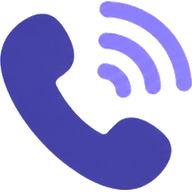
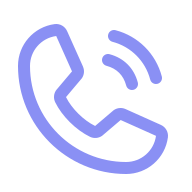
feat(mobile): colour-blind safe palette and errors not shown by colour alone
Done/not done are teal against orange, delete is vermilion, preset tints
stay apart under protanopia, deuteranopia and tritanopia. Preset icons are
flat and drawn in their tint. Field errors get text and an icon under the
field (also read by screen readers); selected segments and tabs get an
outline or heavier label as well as the tint.

diff --git a/mobile/src/lib/theme.tsx b/mobile/src/lib/theme.tsx
@@ -8,7 +8,14 @@ import { useSpoken } from "./use-spoken";
    mobile counterpart: the same roles on a cool white, with the accent deepened
    so it still reads on white. Inter for everything, small labels included: the
    web's uppercase mono labels are left out here on purpose, so the app reads
-   like plain writing rather than a terminal. */
+   like plain writing rather than a terminal.
+
+   Colour-blind safe: done and not done are teal against orange (never green
+   against red), delete is a vermilion that keeps its contrast for protanopes,
+   and the six tints stay apart under protanopia, deuteranopia and tritanopia
+   (simulated, Machado 2009), mostly by differing in lightness as well as hue.
+   Every coloured text clears 4.5:1 on the surfaces. Colour is never the only
+   signal: status always has an icon and words too (ACCESSIBILITY.md). */
 
 /** Supporting tints for preset cards and art. Each is a foreground and a soft background. */
 export type TintKey = "violet" | "amber" | "teal" | "rose" | "sky" | "lime";
@@ -31,7 +38,12 @@ export interface Palette {
   inv: string;
   accent: string;
   accent2: string;
+  /** Destructive actions (delete, hang up, log out): text, and fills under white icons. */
   danger: string;
+  dangerSoft: string;
+  /** A call that got done, and one that didn't. */
+  ok: Tint;
+  fail: Tint;
   scrim: string;
   /** The accent as a quiet tint, behind icons and the active speaker. */
   accentSoft: string;
@@ -55,18 +67,21 @@ export const DARK: Palette = {
   inv: "#0A0C11",
   accent: "#A5B4FF",
   accent2: "#C7D0FF",
-  danger: "#E5484D",
+  danger: "#F0652E",
+  dangerSoft: "rgba(240,101,46,0.14)",
+  ok: { fg: "#5FD8C4", bg: "rgba(95,216,196,0.13)" },
+  fail: { fg: "#F5A623", bg: "rgba(245,166,35,0.14)" },
   scrim: "rgba(0,0,0,0.6)",
   accentSoft: "rgba(165,180,255,0.12)",
   lift: "0 1px 0 rgba(255,255,255,0.04) inset, 0 8px 24px rgba(0,0,0,0.35)",
   glow: 0.32,
   tints: {
-    violet: { fg: "#B9A8FF", bg: "rgba(185,168,255,0.14)" },
-    amber: { fg: "#FFC46B", bg: "rgba(255,196,107,0.13)" },
-    teal: { fg: "#5FD8C4", bg: "rgba(95,216,196,0.13)" },
-    rose: { fg: "#FF8FA8", bg: "rgba(255,143,168,0.13)" },
-    sky: { fg: "#7CC4FF", bg: "rgba(124,196,255,0.13)" },
-    lime: { fg: "#B5E36B", bg: "rgba(181,227,107,0.13)" },
+    violet: { fg: "#A98BF5", bg: "rgba(169,139,245,0.15)" },
+    amber: { fg: "#D69A2E", bg: "rgba(214,154,46,0.14)" },
+    teal: { fg: "#3EE08E", bg: "rgba(62,224,142,0.12)" },
+    rose: { fg: "#F3709C", bg: "rgba(243,112,156,0.14)" },
+    sky: { fg: "#9FD2F0", bg: "rgba(159,210,240,0.13)" },
+    lime: { fg: "#D2E04E", bg: "rgba(210,224,78,0.12)" },
   },
 };
 
@@ -83,18 +98,21 @@ export const LIGHT: Palette = {
   inv: "#FFFFFF",
   accent: "#5566E8",
   accent2: "#3A4BCF",
-  danger: "#D93B40",
+  danger: "#C2410C",
+  dangerSoft: "rgba(194,65,12,0.10)",
+  ok: { fg: "#0B6E62", bg: "rgba(11,110,98,0.10)" },
+  fail: { fg: "#A85A00", bg: "rgba(232,150,20,0.14)" },
   scrim: "rgba(10,12,17,0.35)",
   accentSoft: "rgba(85,102,232,0.09)",
   lift: "0 1px 2px rgba(10,12,17,0.05), 0 6px 18px rgba(10,12,17,0.06)",
   glow: 0.2,
   tints: {
-    violet: { fg: "#6B4FE0", bg: "rgba(107,79,224,0.10)" },
-    amber: { fg: "#B86A00", bg: "rgba(232,150,20,0.13)" },
-    teal: { fg: "#0E8A78", bg: "rgba(14,160,138,0.11)" },
-    rose: { fg: "#D2335C", bg: "rgba(226,60,100,0.10)" },
-    sky: { fg: "#1C74C9", bg: "rgba(40,130,220,0.11)" },
-    lime: { fg: "#4E8A10", bg: "rgba(100,170,30,0.12)" },
+    violet: { fg: "#5F3BCE", bg: "rgba(95,59,206,0.10)" },
+    amber: { fg: "#7A3E0C", bg: "rgba(200,110,30,0.13)" },
+    teal: { fg: "#0B6E3F", bg: "rgba(20,150,90,0.11)" },
+    rose: { fg: "#962A74", bg: "rgba(170,50,130,0.10)" },
+    sky: { fg: "#1478B5", bg: "rgba(30,130,200,0.11)" },
+    lime: { fg: "#6A7E0A", bg: "rgba(140,170,20,0.14)" },
   },
 };
 

diff --git a/mobile/src/components/ui.tsx b/mobile/src/components/ui.tsx
@@ -21,6 +21,7 @@ import Animated, {
   withTiming,
 } from "react-native-reanimated";
 import { ease, em, F, makeStyles, useTheme } from "../lib/theme";
+import { Icon } from "./Icon";
 
 // Shared pieces for the screens, matching the .btn, .rise and .dots rules in web/src/app/globals.css.
 
@@ -153,8 +154,12 @@ export function T({
   return <Text {...rest} style={[s, style]} />;
 }
 
-/** A labelled single-line input in the composer's look (.field): surface, hairline, accent on focus. */
-export function Field({ label, error, style, ...rest }: TextInputProps & { ref?: Ref<TextInputInstance>; label: string; error?: boolean }) {
+/**
+ * A labelled single-line input in the composer's look (.field): surface, hairline, accent on focus.
+ * `error` as text is written under the field with an icon and read out with it, so a mistake
+ * is never shown by the red border alone.
+ */
+export function Field({ label, error, style, ...rest }: TextInputProps & { ref?: Ref<TextInputInstance>; label: string; error?: boolean | string }) {
   const { C, scheme } = useTheme();
   const styles = useStyles();
   const [focused, setFocused] = useState(false);
@@ -163,6 +168,7 @@ export function Field({ label, error, style, ...rest }: TextInputProps & { ref?:
       <Text style={styles.fieldLabel}>{label}</Text>
       <TextInput
         accessibilityLabel={label}
+        accessibilityHint={typeof error === "string" ? error : undefined}
         placeholderTextColor={C.dim}
         selectionColor={C.accent}
         cursorColor={C.accent}
@@ -176,8 +182,14 @@ export function Field({ label, error, style, ...rest }: TextInputProps & { ref?:
           setFocused(false);
           rest.onBlur?.(e);
         }}
-        style={[styles.field, focused && { borderColor: C.accent }, error && { borderColor: C.danger }, style]}
+        style={[styles.field, focused && { borderColor: C.accent }, error ? styles.fieldBad : null, style]}
       />
+      {typeof error === "string" && error ? (
+        <View style={styles.fieldError}>
+          <Icon name="alert" color={C.danger} size={16} />
+          <Text style={styles.fieldErrorText}>{error}</Text>
+        </View>
+      ) : null}
     </View>
   );
 }
@@ -190,6 +202,9 @@ const useStyles = makeStyles((C) => ({
   dot: { width: 6, height: 6, borderRadius: 3, backgroundColor: C.muted },
   fieldWrap: { gap: 6 },
   fieldLabel: { fontFamily: F.medium, fontSize: 13, color: C.muted },
+  fieldBad: { borderColor: C.danger, borderWidth: 2 },
+  fieldError: { flexDirection: "row", alignItems: "center", gap: 6 },
+  fieldErrorText: { fontFamily: F.medium, fontSize: 13.5, color: C.danger, flexShrink: 1 },
   field: {
     height: 48,
     paddingHorizontal: 14,

diff --git a/mobile/src/components/Profile.tsx b/mobile/src/components/Profile.tsx
@@ -52,10 +52,10 @@ export function Profile() {
   const hour = new Date().getHours();
   const greet = m.greet[hour < 5 ? "night" : hour < 11 ? "morning" : hour < 18 ? "day" : "evening"];
   const realOn = serverCalls && !!savedCode;
-  const teal = C.tints.teal;
+  const ready = C.ok;
 
   return (
-    <ScrollView style={styles.grow} contentContainerStyle={styles.body} keyboardShouldPersistTaps="handled">
+    <ScrollView contentOffset={{ x: 0, y: 1250 }} style={styles.grow} contentContainerStyle={styles.body} keyboardShouldPersistTaps="handled">
       <Text style={styles.h} accessibilityRole="header">
         {m.profileH}
       </Text>
@@ -127,10 +127,10 @@ export function Profile() {
       </View>
 
       <SectionTitle icon="phone" title={m.callsH} />
-      <View style={[styles.group, realOn && { borderColor: teal.fg }]}>
+      <View style={[styles.group, realOn && { borderColor: ready.fg }]}>
         <View style={styles.switchRow}>
-          <View style={[styles.tile, { backgroundColor: realOn ? teal.bg : C.accentSoft }]}>
-            <Icon name="cloud" color={realOn ? teal.fg : C.accent} size={19} />
+          <View style={[styles.tile, { backgroundColor: realOn ? ready.bg : C.accentSoft }]}>
+            <Icon name="cloud" color={realOn ? ready.fg : C.accent} size={19} />
           </View>
           <View style={styles.grow}>
             <T size={15} weight="semibold">
@@ -152,7 +152,7 @@ export function Profile() {
         {serverCalls ? (
           <>
             <View style={styles.divider} />
-            <FieldRow icon="key" tint={realOn ? teal : undefined}>
+            <FieldRow icon="key" tint={realOn ? ready : undefined}>
               <Field
                 label={m.passcodeL}
                 value={code}
@@ -168,8 +168,8 @@ export function Profile() {
             </FieldRow>
             {/* The state of calls, said plainly: real phones can ring, or it's a demo. */}
             <View style={styles.state} accessibilityLiveRegion="polite">
-              <Icon name={realOn ? "check" : "phone"} color={realOn ? teal.fg : C.dim} size={16} strokeWidth={realOn ? 2.4 : 1.7} />
-              <Text style={[styles.stateText, { color: realOn ? teal.fg : C.dim }]}>{realOn ? m.passcodeSet : m.passcodeS}</Text>
+              <Icon name={realOn ? "check" : "phone"} color={realOn ? ready.fg : C.dim} size={16} strokeWidth={realOn ? 2.4 : 1.7} />
+              <Text style={[styles.stateText, { color: realOn ? ready.fg : C.dim }]}>{realOn ? m.passcodeSet : m.passcodeS}</Text>
             </View>
           </>
         ) : null}

diff --git a/mobile/src/components/List.tsx b/mobile/src/components/List.tsx
@@ -108,16 +108,17 @@ const useStyles = makeStyles((C) => ({
   rowLine: { borderTopWidth: 1, borderTopColor: C.line },
   pressed: { backgroundColor: C.surface2 },
   ic: { width: 34, height: 34, borderRadius: 10, alignItems: "center", justifyContent: "center", backgroundColor: C.accentSoft },
-  icDanger: { backgroundColor: C.tints.rose.bg },
+  icDanger: { backgroundColor: C.dangerSoft },
   accent: { color: C.accent },
   danger: { color: C.danger },
   dim: { color: C.dim },
   seg: { flexDirection: "row", borderWidth: 1, borderColor: C.line2, borderRadius: 12, padding: 3 },
-  segBtn: { height: 30, paddingHorizontal: 11, borderRadius: 9, justifyContent: "center", alignItems: "center" },
+  // The chosen option gets an outline and a heavier label as well as the tint, so it doesn't rest on colour.
+  segBtn: { height: 30, paddingHorizontal: 11, borderRadius: 9, justifyContent: "center", alignItems: "center", borderWidth: 1.5, borderColor: "transparent" },
   // With an icon: the glyph over a small label, so three choices fit beside a row title.
   segIconBtn: { height: 50, minWidth: 52, paddingHorizontal: 8, gap: 3 },
   segWide: { alignSelf: "stretch" },
-  segOn: { backgroundColor: C.accentSoft },
+  segOn: { backgroundColor: C.accentSoft, borderColor: C.accent },
   segText: { fontFamily: F.medium, fontSize: 12, color: C.dim },
-  segTextOn: { color: C.accent },
+  segTextOn: { color: C.accent, fontFamily: F.semibold },
 }));

diff --git a/mobile/src/components/drawings/PresetArt.tsx b/mobile/src/components/drawings/PresetArt.tsx
@@ -1,8 +1,11 @@
 import { Image } from "react-native";
 import type { PresetIcon } from "../../lib/presets";
 import type { Tint } from "../../lib/theme";
+import { useTint } from "../Art";
 
-// Generated 3D illustrations for the presets (assets/presets, one per PresetIcon).
+// The flat preset icons (assets/presets, one per PresetIcon). Each is one colour, so
+// it is drawn in its theme tint, which keeps the set colour-blind safe and readable
+// in light and dark mode.
 const ART: Record<PresetIcon, number> = {
   phone: require("../../../assets/presets/phone.png"),
   heart: require("../../../assets/presets/heart.png"),
@@ -18,6 +21,7 @@ export function hasPresetArt(icon: PresetIcon): boolean {
   return icon in ART;
 }
 
-export function PresetArt({ icon, size = 56 }: { icon: PresetIcon; tint?: Tint; size?: number }) {
-  return <Image source={ART[icon]} style={{ width: size, height: size }} resizeMode="contain" accessibilityElementsHidden importantForAccessibility="no-hide-descendants" />;
+export function PresetArt({ icon, tint, size = 56 }: { icon: PresetIcon; tint?: Tint; size?: number }) {
+  const own = useTint(icon);
+  return <Image source={ART[icon]} style={{ width: size, height: size, tintColor: (tint ?? own).fg }} resizeMode="contain" accessibilityElementsHidden importantForAccessibility="no-hide-descendants" />;
 }

diff --git a/mobile/src/components/PresetSheets.tsx b/mobile/src/components/PresetSheets.tsx
@@ -245,7 +245,7 @@ export function PresetEditor({ open, preset, onClose }: { open: boolean; preset:
       left={<HeadButton label={m.cancel} onPress={onClose} />}
       right={<HeadButton label={m.save} onPress={save} strong />}
     >
-      <Field label={m.presetName} value={draft.title} placeholder={m.presetNamePh} onChangeText={(title) => patch({ title })} error={invalid && !draft.title.trim()} />
+      <Field label={m.presetName} value={draft.title} placeholder={m.presetNamePh} onChangeText={(title) => patch({ title })} error={invalid && !draft.title.trim() ? m.needTitle : undefined} />
 
       <View style={styles.group}>
         <Text style={styles.groupLabel}>{m.iconL}</Text>
@@ -306,7 +306,7 @@ export function PresetEditor({ open, preset, onClose }: { open: boolean; preset:
         onChangeText={(template) => patch({ template })}
         onSelectionChange={(e) => setSel(e.nativeEvent.selection)}
         multiline
-        error={invalid && !draft.template.trim()}
+        error={invalid && !draft.template.trim() ? m.needTemplate : undefined}
         style={styles.multiline}
       />
       {draft.fields.some((f) => f.label.trim()) ? (

diff --git a/mobile/src/components/Home.tsx b/mobile/src/components/Home.tsx
@@ -310,7 +310,7 @@ function TabBar({ tab }: { tab: Tab }) {
               style={[styles.tab, on && styles.tabOn]}
             >
               <Icon name={x.icon} color={color} size={22} />
-              <Text style={[styles.tabLabel, { color }]} numberOfLines={1}>
+              <Text style={[styles.tabLabel, on && styles.tabLabelOn, { color }]} numberOfLines={1}>
                 {x.label}
               </Text>
             </Pressable>
@@ -369,4 +369,5 @@ const useStyles = makeStyles((C) => ({
   tab: { flex: 1, height: 56, borderRadius: 999, flexDirection: "row", alignItems: "center", justifyContent: "center", gap: 8, paddingHorizontal: 8 },
   tabOn: { backgroundColor: C.surface2 },
   tabLabel: { fontFamily: F.medium, fontSize: 15, letterSpacing: em(-0.006, 15) },
+  tabLabelOn: { fontFamily: F.semibold },
 }));

diff --git a/mobile/src/lib/copy-mobile.ts b/mobile/src/lib/copy-mobile.ts
@@ -73,6 +73,8 @@ const en = {
   deleteQ: "Delete this preset?",
   deleteBody: "You can't undo this.",
   needName: "Give it a name and say what Spoken should do.",
+  needTitle: "Add a name",
+  needTemplate: "Say what Spoken should do",
   // Profile: calls
   callsH: "Calls",
   serverL: "Use the Spoken server",
@@ -188,6 +190,8 @@ const no: MobileCopy = {
   deleteQ: "Slette denne snarveien?",
   deleteBody: "Dette kan ikke angres.",
   needName: "Gi den et navn og skriv hva Spoken skal gjøre.",
+  needTitle: "Legg til et navn",
+  needTemplate: "Skriv hva Spoken skal gjøre",
   callsH: "Samtaler",
   serverL: "Bruk Spoken-serveren",
   serverS: "Spoken planlegger og ringer. Av: skriptede demoer på telefonen.",

diff --git a/mobile/src/components/History.tsx b/mobile/src/components/History.tsx
@@ -79,7 +79,7 @@ function CallCard({ call, onOpen }: { call: CallRecord; onOpen(): void }) {
   const lang = useSpoken((s) => s.lang);
   const { C } = useTheme();
   const styles = useStyles();
-  const tint = call.ok ? C.tints.teal : C.tints.rose;
+  const tint = call.ok ? C.ok : C.fail;
   return (
     <View style={styles.card}>
       <View style={styles.cardTop}>

diff --git a/mobile/src/components/Icon.tsx b/mobile/src/components/Icon.tsx
@@ -44,6 +44,12 @@ const PATHS = {
   send: <Path d="M5 12h13M13 6l6 6-6 6" />,
   check: <Path d="M5 12.5l4.5 4.5L19 7.5" />,
   x: <Path d="M7 7l10 10M17 7 7 17" />,
+  alert: (
+    <>
+      <Circle cx="12" cy="12" r="8.5" />
+      <Path d="M12 7.8v5.2M12 16.2v.1" />
+    </>
+  ),
   replay: (
     <>
       <Path d="M4 12a8 8 0 1 0 2.4-5.7" />

diff --git a/mobile/README.md b/mobile/README.md
@@ -13,6 +13,7 @@ On top of the web design, mobile adds:
 - **Back to home** on the call screen once the call has ended.
 - **Cancel** on the plan card, next to Change: drops the plan and starts an empty chat.
 - **A bigger tab bar**: full width, 56 pt tabs, every label shown.
+- **Colour-blind safe colours**: done is teal and not done is orange (not green against red), delete is a vermilion, and the preset tints are picked to stay apart under protanopia, deuteranopia and tritanopia, checked by simulation (Machado 2009) along with 4.5:1 text contrast in both themes. Status always has an icon and words as well, so nothing depends on colour alone. Not yet checked with colour-blind users. See the note at the top of `src/lib/theme.tsx`.
 - **Plainer labels**: no "Live" status pill or blinking dots in the call, and small labels are sentence-case Inter instead of the web's uppercase mono ("Spoken", "You", not "SPOKEN · AI", "YOU → SPOKEN"). Mobile-only names live in `copy-mobile.ts`.
 
 ```bash
